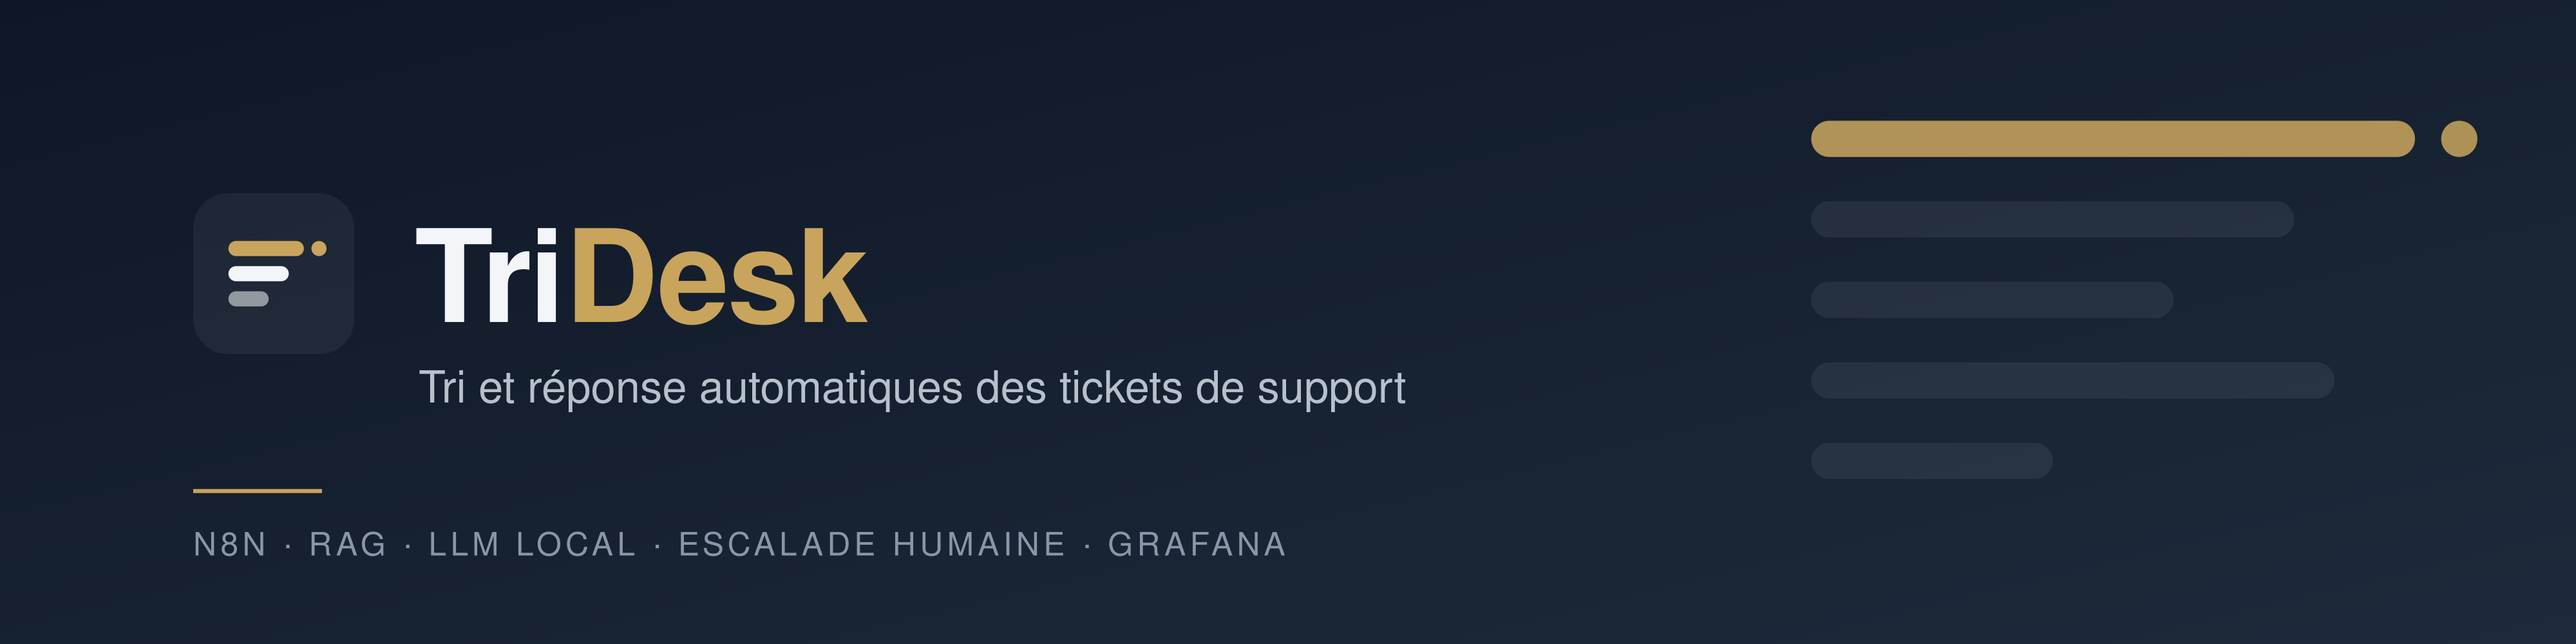
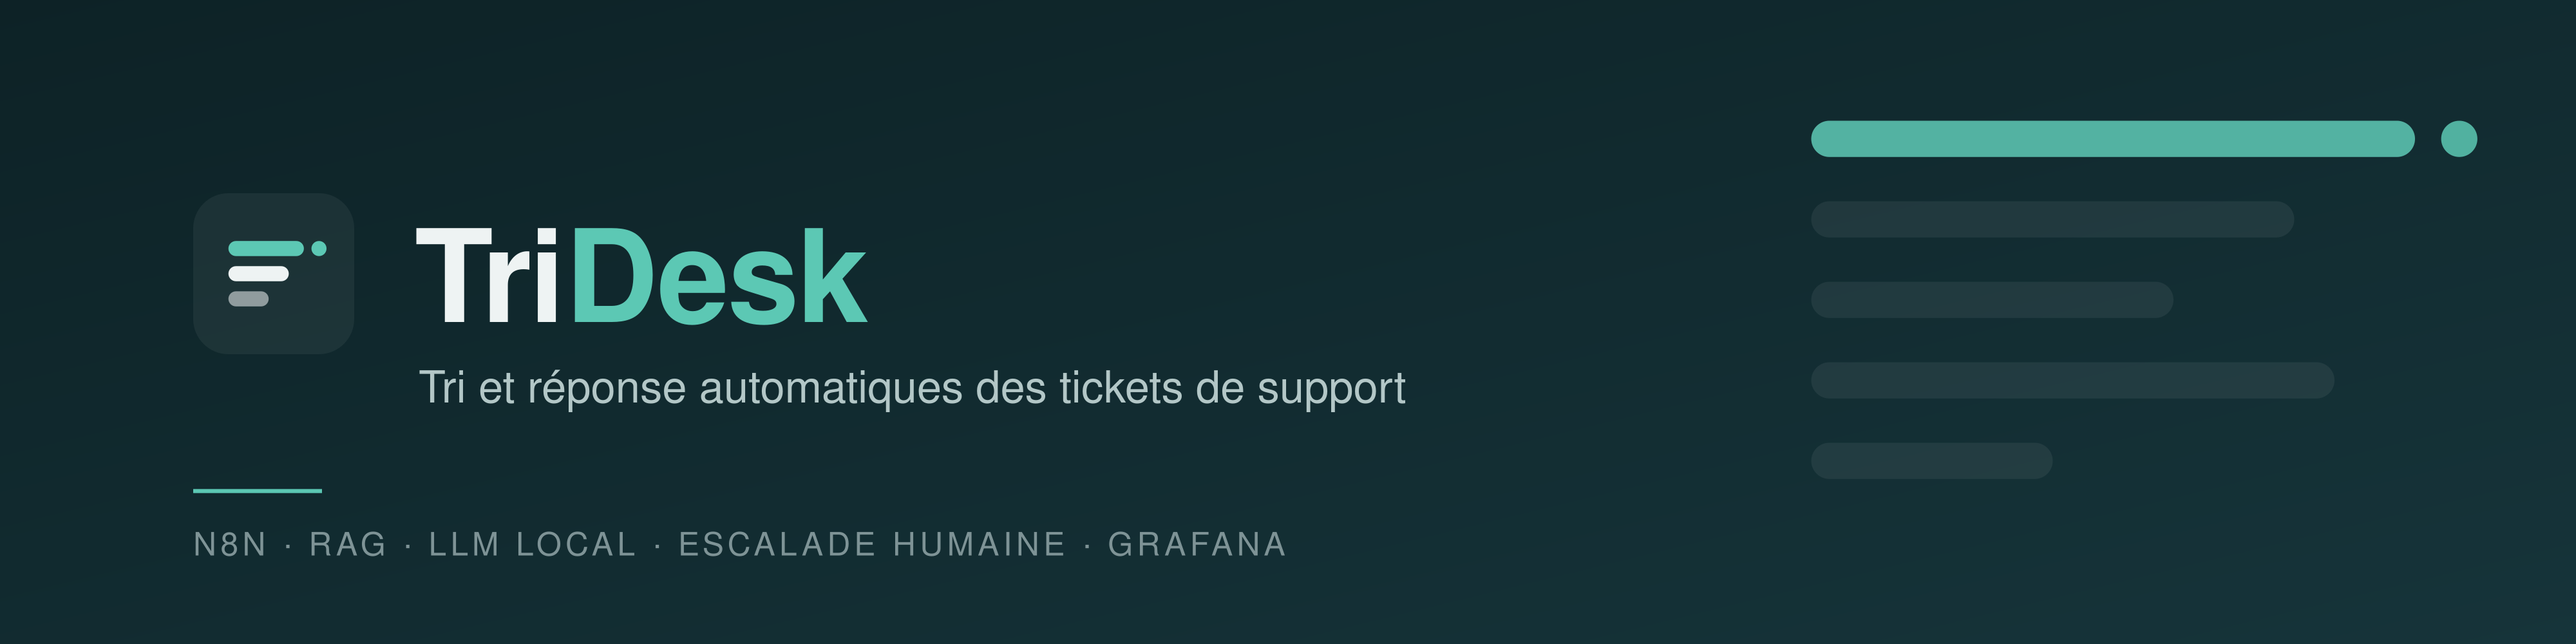
style(branding): palette bleu pétrole et menthe

diff --git a/branding/charte-graphique.md b/branding/charte-graphique.md
@@ -1,6 +1,6 @@
 # Charte graphique — TriDesk
 
-**TriDesk** trie les tickets de support et y répond. L'identité visuelle se veut **premium et sobre** : beaucoup d'espace, une couleur sombre dominante et une seule touche dorée.
+**TriDesk** trie les tickets de support et y répond. L'identité visuelle se veut **premium et sobre** : beaucoup d'espace, une couleur sombre dominante et une seule touche menthe.
 
 ## Logo
 
@@ -11,41 +11,40 @@
 | `logo-mark.svg` / `logo-mark-512.png` | symbole seul : avatar GitHub, favicon, icône de slide |
 | `banner.svg` / `banner.png` | bannière du dépôt (1280 × 320) et image d'aperçu sur les réseaux sociaux |
 
-**Le symbole** représente trois tickets triés par priorité. Le premier, en laiton, est celui qui est traité, et le point indique qu'il est résolu. Le dernier, estompé, est en attente.
+**Le symbole** représente trois tickets triés par priorité. Le premier, en menthe, est celui qui est traité, et le point indique qu'il est résolu. Le dernier, estompé, est en attente.
 
 **Règles**
 - Laisser autour du logo une marge au moins égale à la hauteur d'une barre du symbole.
 - Taille minimale : 24 px pour le symbole seul, 96 px de large pour le logo complet.
 - Ne pas déformer le logo, ne pas changer ses couleurs et ne pas ajouter d'ombre.
-- Le mot s'écrit toujours **TriDesk** (T et D en majuscules, en un seul mot). « Tri » est en couleur de texte, « Desk » en laiton.
+- Le mot s'écrit toujours **TriDesk** (T et D en majuscules, en un seul mot). « Tri » est en couleur de texte, « Desk » en pétrole sur fond clair, en menthe sur fond sombre.
 
-## Couleurs — palette retenue « Encre & laiton »
+## Couleurs — palette retenue « Bleu pétrole et menthe »
 
 | Nom | Hex | Rôle |
 |---|---|---|
-| Encre | `#0E1726` | fond sombre principal, texte sur fond clair |
-| Ardoise | `#1E2A3B` | surfaces et cartes sur fond sombre |
-| Brume | `#8A96A8` | texte secondaire, légendes |
-| Brume claire | `#F3F5F8` | fond clair (gris-blanc froid), texte sur fond sombre |
-| Laiton | `#C9A45C` | accent **sur fond sombre** uniquement |
-| Blanc carte | `#FDFDFE` | cartes et blocs sur fond clair, bordure `#DDE2E9` |
-| Laiton foncé | `#A8823C` | accent sur fond clair (meilleur contraste) |
+| Pétrole nuit | `#0D2226` | fond sombre principal, texte sur fond clair |
+| Pétrole profond | `#16343A` | surfaces et cartes sur fond sombre |
+| Pétrole | `#1F6F68` | accent **sur fond clair** (titres d'étiquette, chiffres, liens) |
+| Menthe | `#5CC8B4` | accent **sur fond sombre** uniquement (trop clair pour du texte sur fond clair) |
+| Gris pétrole | `#7E9396` | texte secondaire, légendes |
+| Brume | `#EEF3F3` | fond clair, texte sur fond sombre |
+| Blanc carte | `#FBFDFD` | cartes et blocs sur fond clair, bordure `#D6E1E1` |
 
-**Couleurs d'état**, réservées aux données (tableau de bord, slides de résultats) :
+**Couleurs d'état**, réservées aux données (tableau de bord, slides de résultats). Elles se distinguent aussi par le texte, jamais par la couleur seule :
 - critique : `#B5483F` ;
 - escalade : `#D08A3E` ;
-- résolu : `#3E8E7E`.
+- résolu : `#1F6F68`.
 
-**Proportions conseillées** : 70 % Encre ou Brume claire, 25 % Ardoise ou Brume, **5 % Laiton au maximum**. L'accent doré ne marche que s'il reste rare : un mot, un trait ou un chiffre clé par écran.
+**Proportions conseillées** : 70 % Pétrole nuit ou Brume, 25 % Pétrole profond ou Gris pétrole, **5 % Menthe au maximum**. L'accent ne marche que s'il reste rare : un mot, un trait ou un chiffre clé par écran. Pas de crème ni de beige.
 
-### Alternatives proposées
-Si l'équipe préfère une autre ambiance, il suffit de changer l'accent. Le reste de la palette ne bouge pas.
-
-| Palette | Fond | Accent | Ambiance |
+### Palettes écartées
+| Palette | Fond | Accent | Pourquoi pas retenue |
 |---|---|---|---|
-| **Encre & laiton** (retenue) | `#0E1726` | `#C9A45C` | institutionnel, haut de gamme |
-| Graphite & émeraude | `#16181D` | `#2F8F6F` | technique, « produit SaaS » |
-| Nuit & bordeaux | `#121420` | `#8C2F39` | plus chaleureux, éditorial |
+| Encre et laiton | `#0E1726` | `#C9A45C` | or et crème : rendu jugé trop « généré par IA » |
+| Monochrome graphite | `#111113` | aucun | très sobre, mais sans repère de marque |
+| Graphite et bleu cobalt | `#0B0D12` | `#3B5BFD` | proche de beaucoup d'outils SaaS |
+| Noir et orange signal | `#121212` | `#FF5A1F` | trop affirmé pour un outil de support |
 
 ## Typographie
 
@@ -59,10 +58,10 @@ Ces trois polices sont libres et disponibles sur Google Fonts. Si elles manquent
 
 Règles :
 - Titres en casse de phrase (« Architecture de la solution »), jamais tout en majuscules.
-- Petites étiquettes en majuscules espacées, en Brume (comme « N8N · RAG · LLM LOCAL » sur la bannière).
+- Petites étiquettes en majuscules espacées, en Gris pétrole (comme « N8N · RAG · LLM LOCAL » sur la bannière).
 
 ## Mise en page (slides, article, vidéo)
-- **Slides** : fond Encre pour la couverture et les transitions, fond Brume claire pour le contenu (jamais de crème ni de beige : trop « généré par IA »). Un seul message par slide.
+- **Slides** : fond Pétrole nuit pour la couverture et les transitions, fond Brume pour le contenu, cartes en Blanc carte. Un seul message par slide.
 - **Vidéo** : écran titre en bannière, puis le symbole en filigrane dans un coin pendant la démo.
-- **Captures d'écran** : coins arrondis de 12 px et fine bordure Ardoise. Pas d'ombre portée.
+- **Captures d'écran** : coins arrondis de 12 px et fine bordure Pétrole profond. Pas d'ombre portée.
 - **Ton** : phrases courtes, à la voix active, en vouvoyant le lecteur. Pas de superlatifs (« révolutionnaire », « ultime »).
